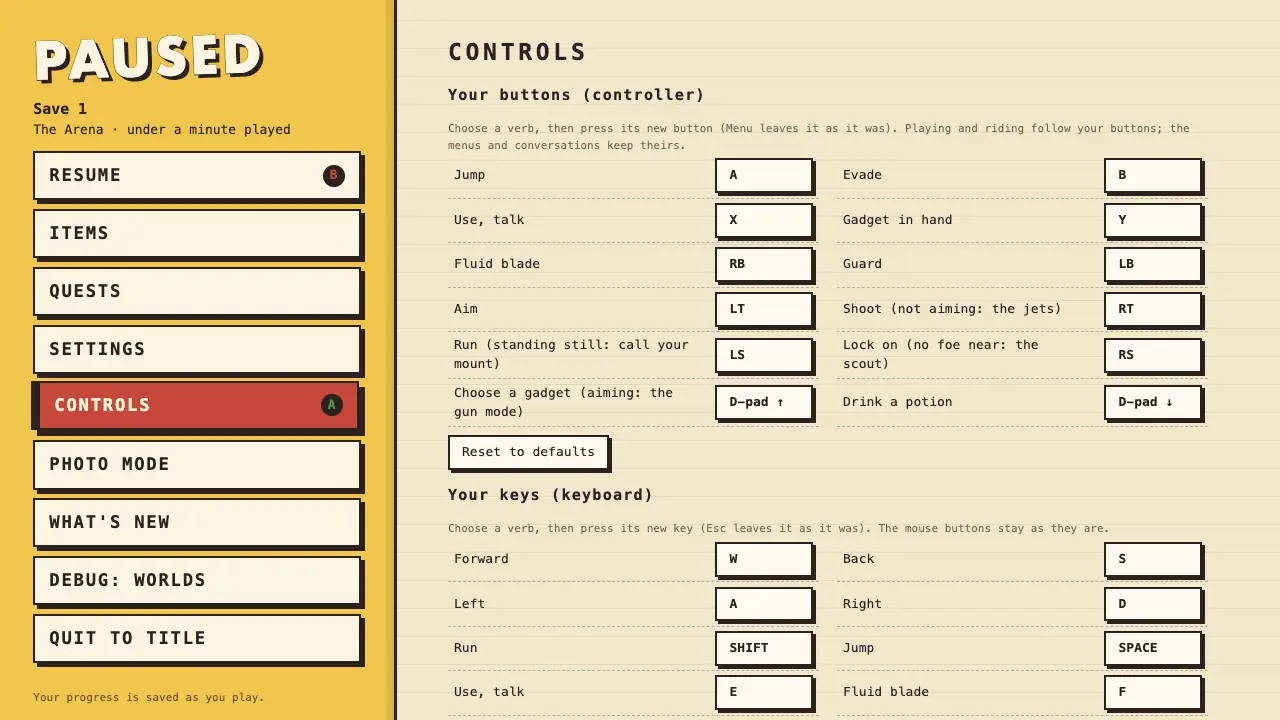
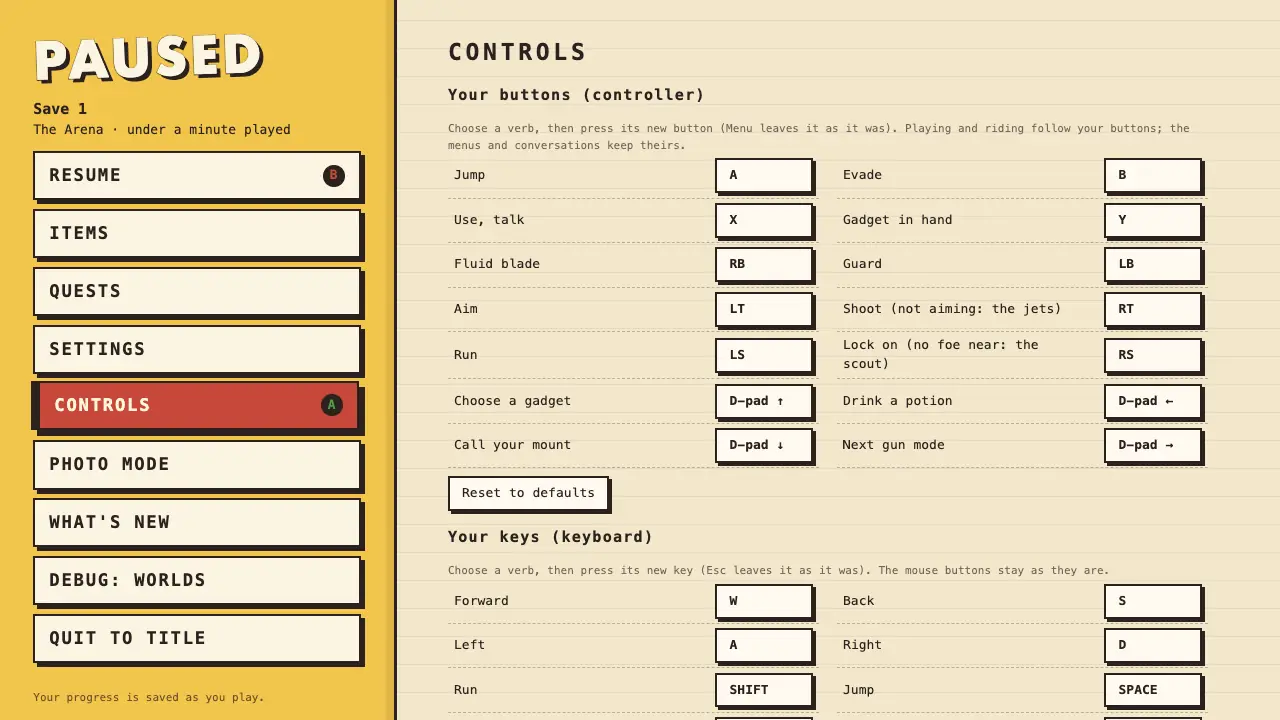
v1.11 changelog: the controller's quick buttons, one job each (replaces the three double-duty lines), with the Controls page before / after
The first line reads against v1.10 (the Controls list, before at v1.10); the second tells players of v1.11's
first build what went (the Controls buttons, before at that build). The D-pad ↑ wheel's pictures go: the
wheel is the gadgets' alone again.

diff --git a/src/changelog-media.js b/src/changelog-media.js
@@ -361,7 +361,7 @@ const GUARD_WIND = (id, atk, { meter = 0, k = 0.85, side = 15, back = 9, h = 6, 
 const TELL_VIEW = (setup, player = null) => ({ level: 'arena', query: 'foe=blot', quality: 'high', save: SAVE_ON, wait: 2500, setup, ...(player ? { player, heading: Math.PI * 0.75 } : {}) });
 const TELLS = { commit: '3a635fa8', before: '8312cf69' };
 
-// (v1.10, the controller's quick buttons: a pad in hand, held as the setup says; the camera stays put)
+// (v1.11, the controller's quick buttons, one job each: a pad in hand, held as the setup says; the camera stays put)
 const FAKE_PAD = `const pad = { index: 0, id: 'Xbox Wireless Controller (STANDARD GAMEPAD Vendor: 045e Product: 0b13)', connected: true, mapping: 'standard', timestamp: 1, axes: [0, 0, 0, 0], buttons: Array.from({ length: 17 }, () => ({ pressed: false, value: 0, touched: false })) };
   navigator.getGamepads = () => [pad];
   const set = (i, on) => { pad.buttons[i] = { pressed: on, value: on ? 1 : 0, touched: on }; pad.timestamp++; };
@@ -370,7 +370,7 @@ const FAKE_PAD = `const pad = { index: 0, id: 'Xbox Wireless Controller (STANDAR
   set(9, true); await wait(150); set(9, false); await wait(300); window.menu.toggle(false); await wait(300);`;
 const PAD_SAVE = { flags: { 'prologue.done': true, 'item.backpack': true, 'items.v': 2, 'item.hook': true, 'item.bomb': true, 'item.fan': true, 'item.lens': true, 'item.magnet': true, 'item.fire': true, 'item.stun': true, 'gadget.equipped': 'hook' }, keepsakes: [] };
 const PAD_VIEW = (setup) => ({ level: 'arena', hud: true, save: PAD_SAVE, wait: 1200, setup: `${FAKE_PAD}\n${setup}` });
-const PADS = { commit: 'ac6ecdf8' };
+const PADS = { commit: 'cc087bd4' };
 
 export const CHANGELOG_MEDIA = {
   '1.11': [
@@ -397,18 +397,14 @@ export const CHANGELOG_MEDIA = {
       { name: 'desert-mask-doorway', caption: 'The doorway before the masked head: before, a flat dark panel in its frame; after, a short passage into the dark', commit: 'ced314df',
         view: { level: 'desert', player: [9, 9, -360], eye: [10, 11.5, -357], target: [7, 10.5, -371], fov: 50 } },
     ] },
-    { match: 'On a controller, D-pad ↓ drinks a healing potion', shots: [
-      { name: 'controls-pad-list', caption: 'The Controls page with a controller in hand, at the controller’s list: before, the potion on View + D-pad ↓, the mount on D-pad ↓ and the gun mode on D-pad ← / →; after, the potion on D-pad ↓, the mount on L3 standing still, the gun mode on D-pad ↑ while aiming', ...PADS,
+    { match: 'On a controller every button now has one job', shots: [
+      { name: 'controls-pad-list', caption: 'The Controls page with a controller in hand, at the controller’s list, v1.10 against now: before, the potion on View + D-pad ↓ and the gun mode on D-pad ← / →; after, the potion on D-pad ←, the gun mode on D-pad →, the mount still on D-pad ↓', ...PADS, before: 'bbc5a982',
         view: PAD_VIEW(`window.menu.toggle(true, 'controls'); await wait(400); const li = [...document.querySelectorAll('#settings li')].find((e) => /^Gun mode \\(/.test(e.textContent.trim())); li?.scrollIntoView({ block: 'center' }); await wait(300);`) },
-    ], see: 'With a controller, take a hit so a heart is missing and press D-pad ↓: the traveller drinks, the flask by the hearts tips and the hearts come back. In the Arena (?level=arena) D-pad ↓ opens the FOES list instead.' },
-    { match: 'Calling your mount or hailing a taxi is a click of the left stick', shots: [
-      { name: 'controls-pad', caption: 'The Controls page’s “Your buttons (controller)”: before, Call your mount on D-pad ↓ and two gun-mode buttons on D-pad ← and →; after, Run (standing still: call your mount) on L3, the gun mode with Choose a gadget, and Drink a potion on D-pad ↓', ...PADS,
+    ], see: 'With a controller, take a hit so a heart is missing and press D-pad ←: the traveller drinks, the flask by the hearts tips and the hearts come back. With the backpack and a gun mode found, press D-pad → a few times: the tank changes colour and comes round to the fluid. In the Arena (?level=arena) D-pad ↓ opens the FOES list.' },
+    { match: 'If you played v1.11’s first build', shots: [
+      { name: 'controls-pad', caption: 'The Controls page’s “Your buttons (controller)”, v1.11’s first build against now: before, Run (standing still: call your mount) on L3, the gun mode folded into Choose a gadget, Drink a potion on D-pad ↓; after, one row each: Drink a potion on D-pad ←, Call your mount on D-pad ↓, Next gun mode on D-pad →', ...PADS,
         view: PAD_VIEW(`window.menu.toggle(true, 'controls'); await wait(500);`) },
-    ], see: 'In the Desert with the hoverbike found, stand still and click the left stick: the bike comes. Push the stick and click it: you run, and the bike stays where it is.' },
-    { match: 'The gun’s modes moved onto D-pad ↑ with the gadgets', shots: [
-      { name: 'gun-wheel', caption: 'D-pad ↑ held in the Arena, the left stick on the grappling hook and the right stick down to the left: before, the gadgets alone (the right stick turned the camera); after, the gun modes on an inner ring in their colours, the one in the tool ringed, and the right stick on Ember', ...PADS,
-        view: PAD_VIEW(`set(12, true); await wait(700); pad.axes = [0.95, 0.3, -0.95, 0.3]; pad.timestamp++; await wait(400);`) },
-    ], see: 'With the backpack and a gadget, hold D-pad ↑: the wheel opens with the gun modes on an inner ring. Point the left stick at a gadget and the right stick at a mode, then let go. Hold LT / L2 and tap D-pad ↑: the next gun mode.' },
+    ], see: 'With a controller, stand still and click the left stick: nothing but a run (the mount comes with D-pad ↓). Hold LT / L2 and tap D-pad ↑: the next gadget, not a gun mode. Hold D-pad ↑: the wheel has the gadgets only.' },
     { match: 'Inside the ship the main room is laid out anew', shots: [
       { name: 'ship-layout-aft', caption: 'From the back of the main room toward the cockpit, the view of the picked sheet: before, the holo table at the front, the galley on the right, the entry lockers on the left; after, the galley along the left wall, the holo table in the middle in the crook of the curved console with the voicemail on its near end, the bunk’s arched alcove and the lockers on the right, two seats in the cockpit', commit: 'f64c722a', before: '70309935',
         view: { level: 'glassdunes', save: SAVE_SHIP, wait: 3000, setup: SHIP_ROOM([0.3, 1.75, 2.3], [0, 1.1, -8], 78) }, from: SHIP_FROM },

diff --git a/src/changelog.js b/src/changelog.js
@@ -16,9 +16,8 @@ export const CHANGELOG = [
     'In Vael, Senn now listens at the foot of the capped needle spire out on the plain, halfway from the landing to the lone tower, and the makers’ box with the hush-cloth waits on that spire’s cap beside one of the shed feathers: one long climb, two finds. A line of standing stones leads up the slope from the landing toward the Aerie.',
     'The doorway in the sand before the desert’s masked head is a short passage into the dark now, with a little warm light on its floor, so it no longer looks like a shut door.',
     // the controller's quick buttons, rearranged
-    'On a controller, D-pad ↓ drinks a healing potion: one press, where you held View before. In the Arena, the Arcade and the References it still opens their lists.',
-    'Calling your mount or hailing a taxi is a click of the left stick (L3) while you stand still. Clicked while you move it makes you run, as before, and a run never whistles.',
-    'The gun’s modes moved onto D-pad ↑ with the gadgets: tap it while aiming (LT / L2) for the next mode, or hold it for the wheel, where the modes sit on an inner ring. The left stick picks a gadget, the right stick a mode, both in one hold. D-pad ← and → are free now, and a returning player is told once what moved.',
+    'On a controller every button now has one job. D-pad ← drinks a healing potion in one press, where you held View + D-pad ↓ before. D-pad → takes the next gun mode, round to the first after the last. D-pad ↓ still calls your mount or hails a taxi (in the Arena, the Arcade and the References it opens their lists), D-pad ↑ still chooses a gadget, and L3 only runs.',
+    'If you played v1.11’s first build, its double-duty buttons are gone: L3 no longer calls your mount when you stand still, tapping D-pad ↑ while aiming no longer changes the gun mode, and the gadget wheel holds only gadgets again. Buttons you moved on the Controls page come with you, and a note tells you once what moved.',
     // the ship's rooms, laid out as the picked reference
     'Inside the ship the main room is laid out anew, one long room opening onto the cockpit. The holo table stands in the middle in the crook of a curved console, and the voicemail now sits on the console’s near end, its button, the projector and a little boxy screen: you stand behind it facing forward, and your parents rise over it with the whole room and the windshield beyond them (the holo table’s planet folds away while they speak). The galley runs along the left wall from the door to the cockpit, a board of tools over the counter; coats and packs hang by the door, which has a round porthole now; your bunk lies in an arched alcove under the right-hand window, with its books and photographs, and you wake there; the lockers stand at the back on the right. The cockpit has two seats side by side and a panel overhead, and the sofa and the little table have moved to the back room.',
   ] },

diff --git a/changelog.md b/changelog.md
@@ -5,9 +5,8 @@ The same release notes shown in the game (press **N** or open settings).
 ## v1.11 — 2026-10-09
 
 - Inside the ship the main room is laid out anew, one long room opening onto the cockpit. The holo table stands in the middle in the crook of a curved console, and the voicemail now sits on the console’s near end, its button, the projector and a little boxy screen: you stand behind it facing forward, and your parents rise over it with the whole room and the windshield beyond them (the holo table’s planet folds away while they speak). The galley runs along the left wall from the door to the cockpit, a board of tools over the counter; coats and packs hang by the door, which has a round porthole now; your bunk lies in an arched alcove under the right-hand window, with its books and photographs, and you wake there; the lockers stand at the back on the right. The cockpit has two seats side by side and a panel overhead, and the sofa and the little table have moved to the back room.
-- The gun’s modes moved onto D-pad ↑ with the gadgets: tap it while aiming (LT / L2) for the next mode, or hold it for the wheel, where the modes sit on an inner ring. The left stick picks a gadget, the right stick a mode, both in one hold. D-pad ← and → are free now, and a returning player is told once what moved.
-- Calling your mount or hailing a taxi is a click of the left stick (L3) while you stand still. Clicked while you move it makes you run, as before, and a run never whistles.
-- On a controller, D-pad ↓ drinks a healing potion: one press, where you held View before. In the Arena, the Arcade and the References it still opens their lists.
+- If you played v1.11’s first build, its double-duty buttons are gone: L3 no longer calls your mount when you stand still, tapping D-pad ↑ while aiming no longer changes the gun mode, and the gadget wheel holds only gadgets again. Buttons you moved on the Controls page come with you, and a note tells you once what moved.
+- On a controller every button now has one job. D-pad ← drinks a healing potion in one press, where you held View + D-pad ↓ before. D-pad → takes the next gun mode, round to the first after the last. D-pad ↓ still calls your mount or hails a taxi (in the Arena, the Arcade and the References it opens their lists), D-pad ↑ still chooses a gadget, and L3 only runs.
 - The doorway in the sand before the desert’s masked head is a short passage into the dark now, with a little warm light on its floor, so it no longer looks like a shut door.
 - In Vael, Senn now listens at the foot of the capped needle spire out on the plain, halfway from the landing to the lone tower, and the makers’ box with the hush-cloth waits on that spire’s cap beside one of the shed feathers: one long climb, two finds. A line of standing stones leads up the slope from the landing toward the Aerie.
 - The long ride out to the Givers’ Hearth has company: Yara the salt-carrier rests under her sunshade a third of the way, and a sand-skiff’s wreck lies on its side two thirds of the way, its mast still up. Coming home, the marked stones lead you back to Qanat past the keepers’ bowl and their cold camp.
